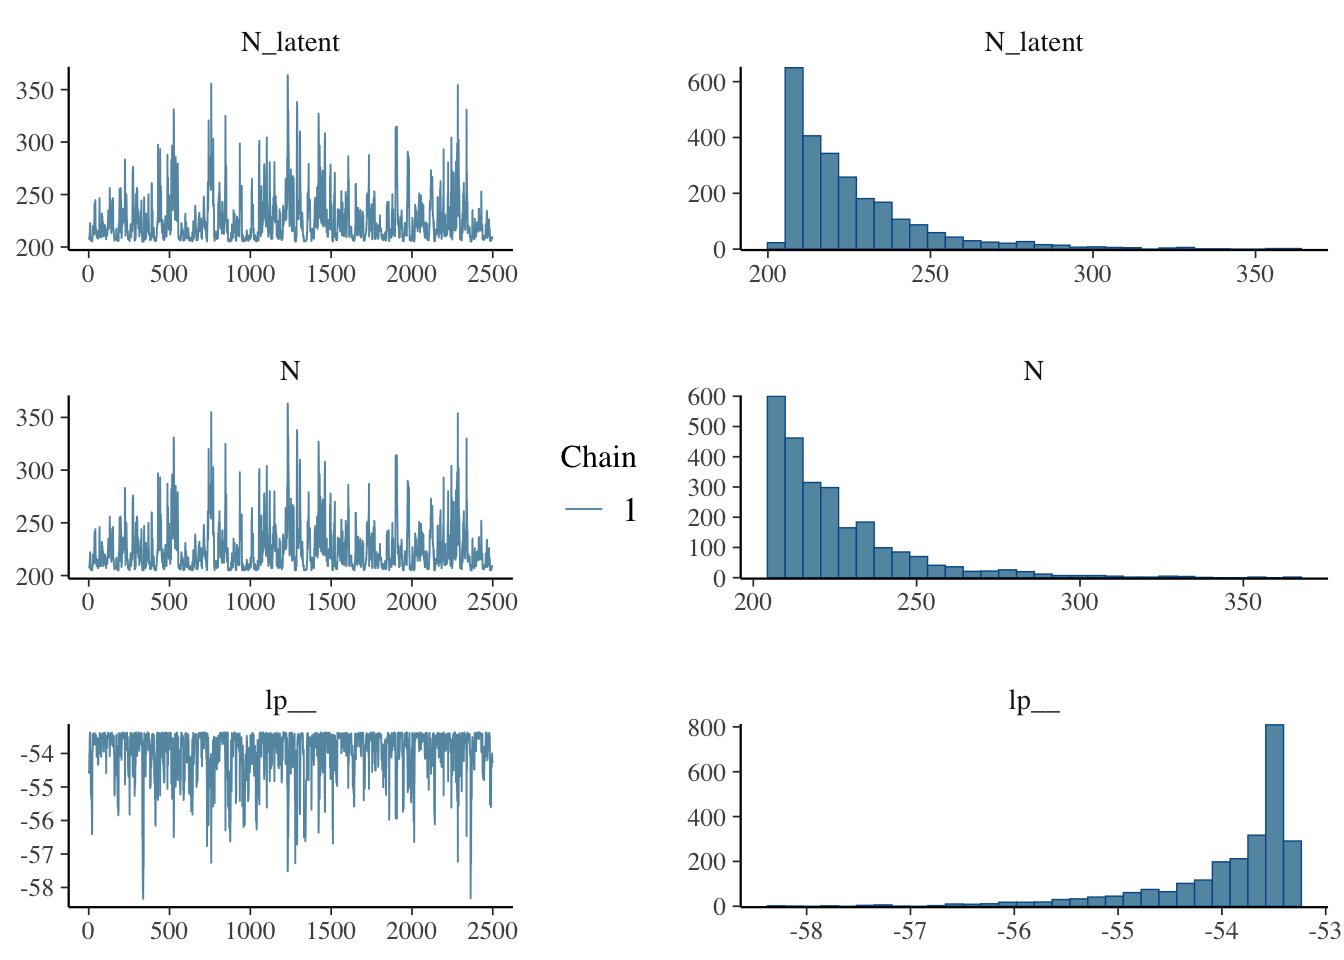
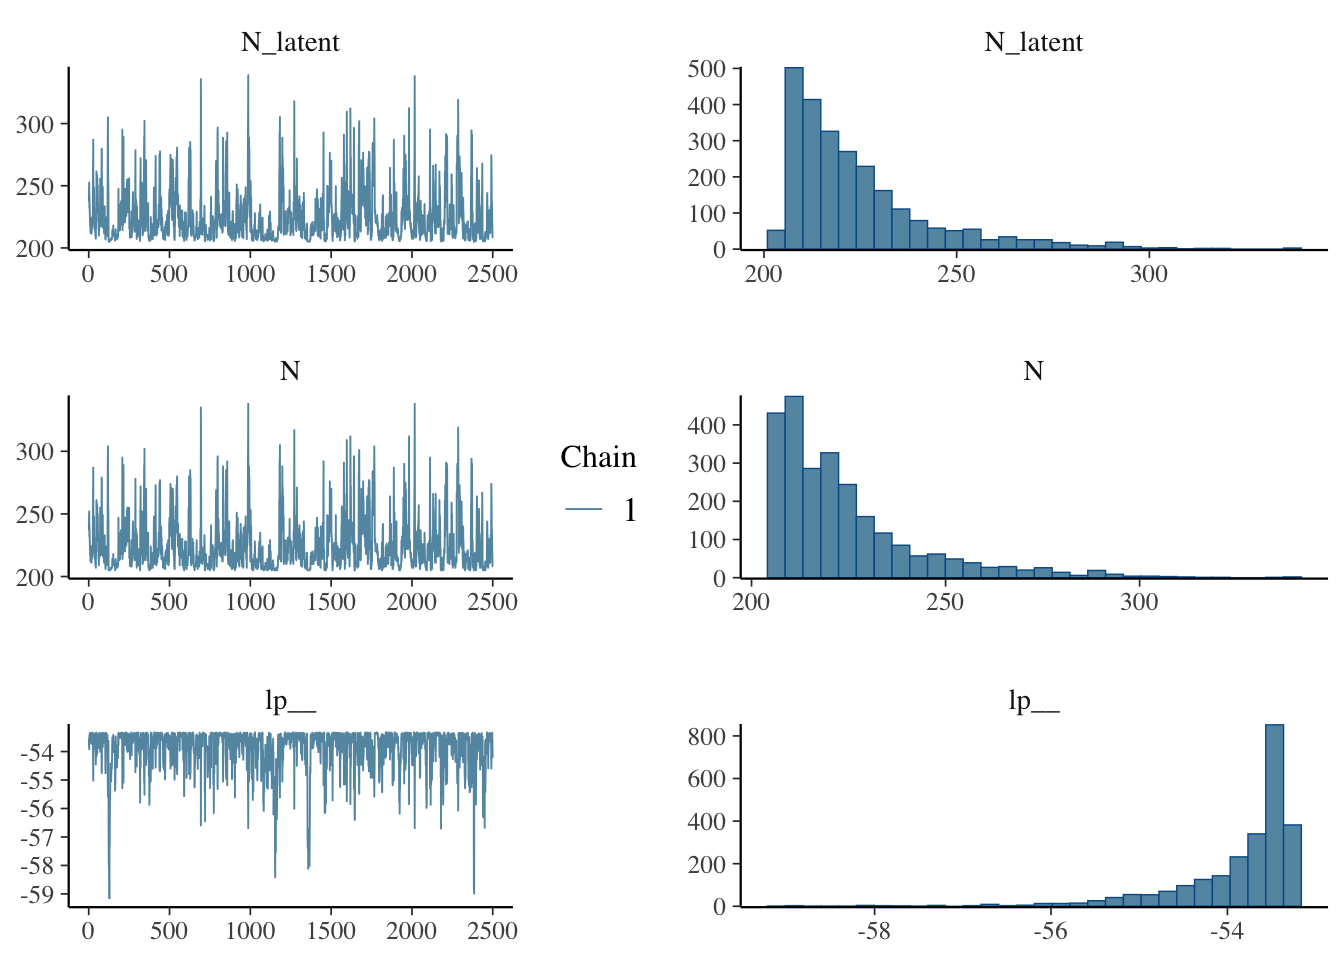
Add soln tank

diff --git a/ex/soln3_tank.html b/ex/soln3_tank.html
@@ -341,7 +341,7 @@ tank_fit</code></pre>
 ## N    223.95    0.70 20.71 205.36 210.24 217.81 230.02 278.81   886 1.00
 ## lp__ -53.95    0.04  0.84 -56.61 -54.11 -53.62 -53.42 -53.37   467 1.01
 ## 
-## Samples were drawn using NUTS(diag_e) at Wed Nov 13 13:36:21 2024.
+## Samples were drawn using NUTS(diag_e) at Fri Nov 29 14:10:24 2024.
 ## For each parameter, n_eff is a crude measure of effective sample size,
 ## and Rhat is the potential scale reduction factor on split chains (at 
 ## convergence, Rhat=1).</code></pre>
@@ -449,15 +449,7 @@ parameters {
     real &lt;lower = max(s)&gt; N_latent;
 }
 model {
-    for(i in 1:nobs) {
-        if(floor(N_latent) &lt; s[i]) {
-            // if any N is less than s, add -Inf to the likelihood
-            target += log(0);
-        } else {
-            // discrete uniform distribution with a min of 1 and max of N_latent
-            target += -log(floor(N_latent)); 
-        }
-    }
+    s ~ uniform(1, floor(N_latent));
     N_latent ~ exponential(lam);
 }
 generated quantities {
@@ -466,25 +458,21 @@ generated quantities {
     // just N_latent, rounded down
     real N = floor(N_latent);
 }</code></pre>
-<pre class="r"><code>tank_fit_d = sampling(tank_mod_discrete, data = tank_data, iter = 5000, chains = 1, refresh = 0)</code></pre>
-<pre><code>## Warning: There were 1186 transitions after warmup that exceeded the maximum treedepth. Increase max_treedepth above 10. See
-## https://mc-stan.org/misc/warnings.html#maximum-treedepth-exceeded</code></pre>
-<pre><code>## Warning: Examine the pairs() plot to diagnose sampling problems</code></pre>
-<pre class="r"><code>tank_samps_d = as.matrix(tank_fit_d)
+<pre class="r"><code>tank_fit_d = sampling(tank_mod_discrete, data = tank_data, iter = 5000, chains = 1, refresh = 0, control = list(max_treedepth = 20))
+tank_samps_d = as.matrix(tank_fit_d)
 mcmc_combo(tank_samps_d, combo = c(&quot;trace&quot;, &quot;hist&quot;))</code></pre>
-<pre><code>## `stat_bin()` using `bins = 30`. Pick better value with `binwidth`.</code></pre>
 <p><img src="soln3_tank_files/figure-html/unnamed-chunk-17-1.png" width="672" /></p>
 <pre class="r"><code>(quant_interval = quantile(tank_samps_d[,&#39;N&#39;], c(0.05, 0.95)))</code></pre>
 <pre><code>##  5% 95% 
-## 206 269</code></pre>
+## 206 266</code></pre>
 <pre class="r"><code>hdi_interval = hdi(tank_samps_d[,&#39;N&#39;], density = 0.9)
 
 
 # compare with the quantile interval
 rbind(hdi = hdi_interval, quantile = quant_interval)</code></pre>
 <pre><code>##          lower upper
-##            205   251
-## quantile   206   269</code></pre>
+##            205   250
+## quantile   206   266</code></pre>
 <p>The results are very similar, but now the mode is correctly and
 exactly included!</p>
 </div>

diff --git a/index.md b/index.md
@@ -77,7 +77,7 @@ This course will cover the basics of Bayesian statistical methods with applicati
 		<td><a href="lec/4_inference_i">Inference I</a></td>
 		<td>
 			<p><a href = "ex/ex3_tank">German tank problem</a></p>
-			<!--<p class = "soln"><a href = "ex/soln3_tank.html">Solutions</a></p>-->
+			<p class = "soln"><a href = "ex/soln3_tank.html">Solutions</a>
 			<p class = "ex"><a href = "ex/ex4_birddisp.html">Bird dispersal</a></p>
 				<!--<p class = "soln"><a href = "ex/soln4_birddisp.html">Solutions</a></p>-->
 		</td>
